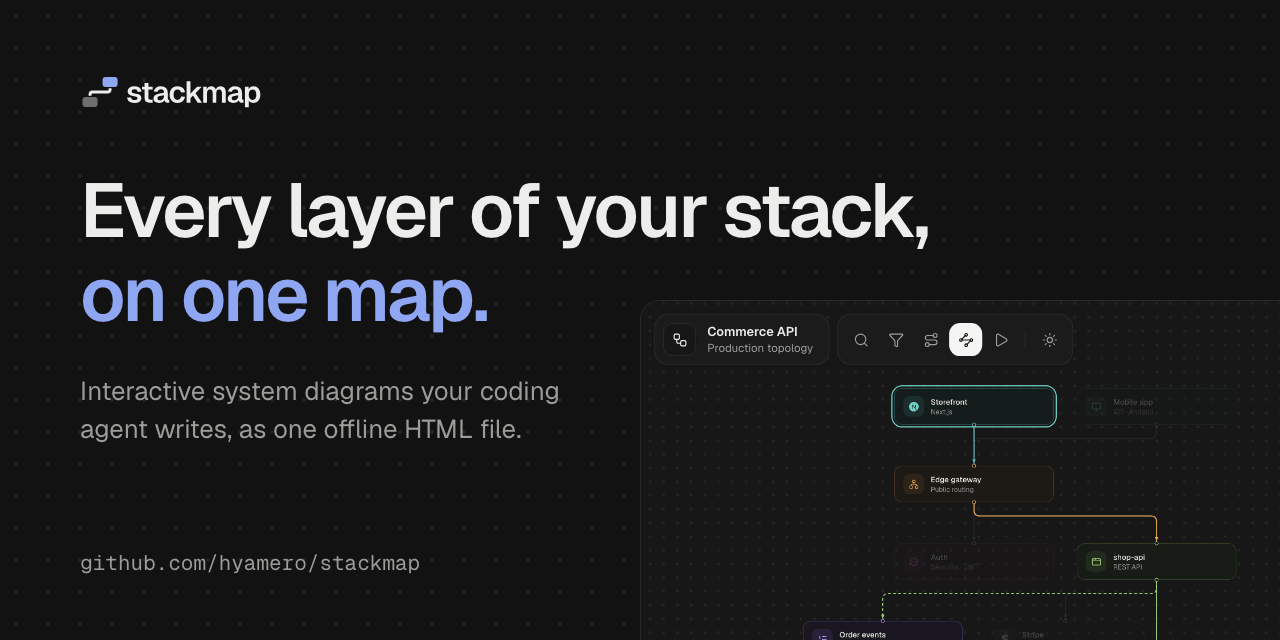
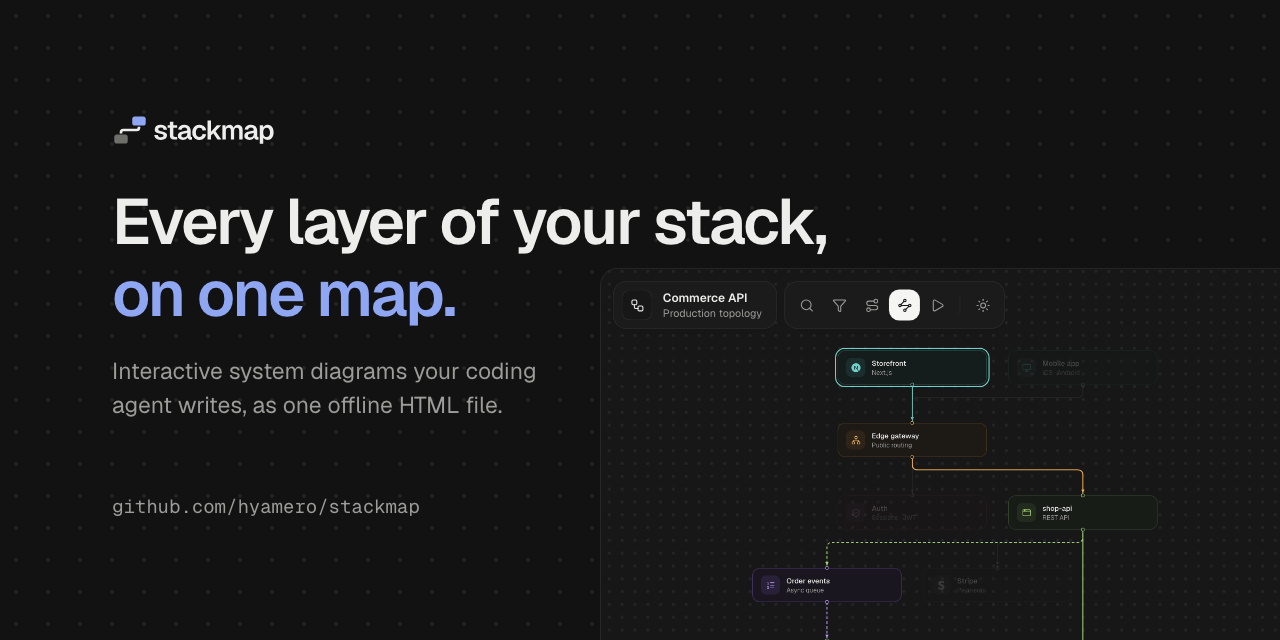
docs(brand): keep the GitHub social preview inside GitHub's 80px crop border

diff --git a/assets/brand/README.md b/assets/brand/README.md
@@ -22,7 +22,7 @@ Every file carries explicit colours, so pick the light file or its `-dark` twin 
 | `stackmap-favicon.svg`, `-32.png`, `-16.png` | The compact mark on the icon tile (inlined in the viewer) |
 | `stackmap-readme-header.png`, `-dark` | The 1280×400 README header at 2×, in a `<picture>` at the full column width |
 | `stackmap-social-card.png`, `-light.png` | The 1200×630 link preview (`og:image`, `twitter:image`); the site serves the dark one |
-| `stackmap-github-preview.png` | The 1280×640 GitHub social preview (Settings › General › Social preview) |
+| `stackmap-github-preview.png` | The 1280×640 GitHub social preview (Settings › General › Social preview), with everything that matters inside GitHub's 80px crop border |
 
 ## Rules
 
